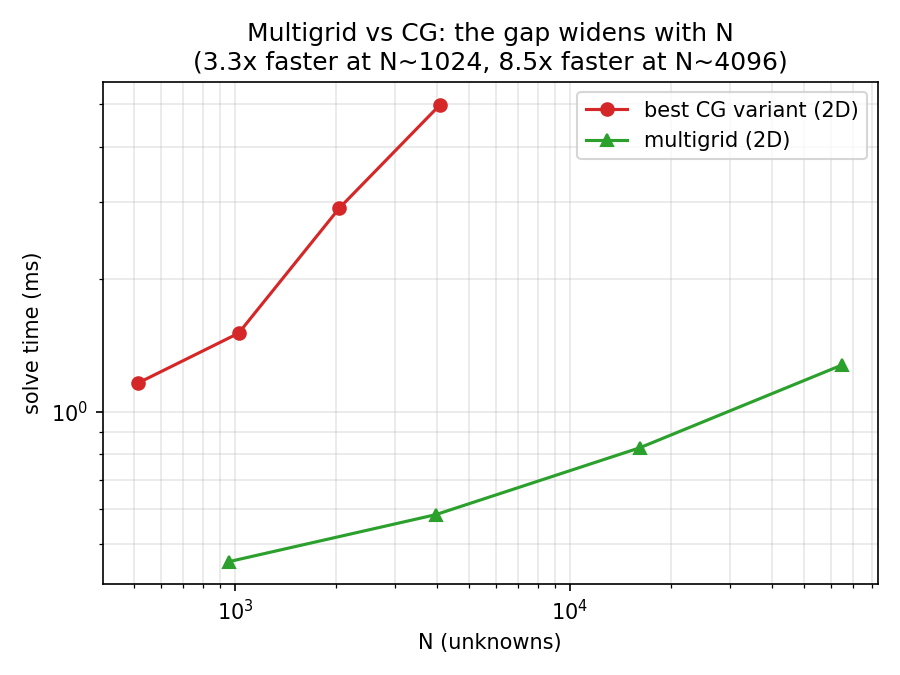
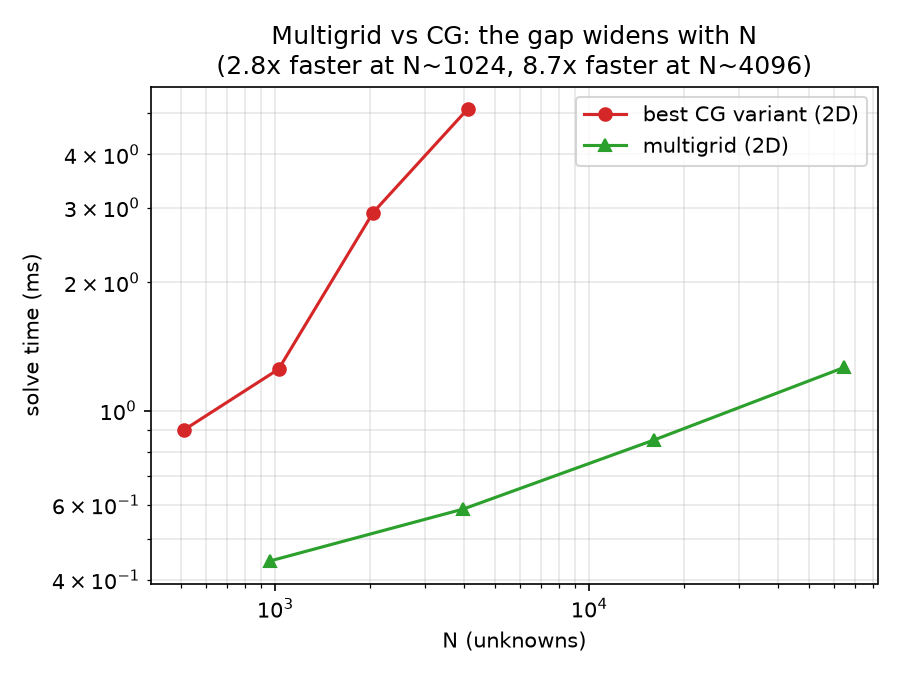
Multigrid rerun under final timing conditions; Figures 2 and 3 regenerated

diff --git a/figures/plot_all.py b/figures/plot_all.py
@@ -34,9 +34,9 @@ plt.close(fig)
 # ---------------------------------------------------------------------
 fig, ax = plt.subplots(figsize=(6, 4.5))
 n_cg2d = [512, 1024, 2048, 4096]
-t_cg2d_best = [1.1617, 1.5082, 2.9023, 4.9836]  # fastest CG variant at each size
+t_cg2d_best = [0.9009, 1.2512, 2.9202, 5.1122]  # fastest CG variant at each size
 n_mg = [961, 3969, 16129, 65025]
-t_mg = [0.4570, 0.5839, 0.8281, 1.2780]
+t_mg = [0.443, 0.5868, 0.8534, 1.2638]
 
 ax.plot(n_cg2d, t_cg2d_best, "o-", label="best CG variant (2D)", color="#d62728")
 ax.plot(n_mg, t_mg, "^-", label="multigrid (2D)", color="#2ca02c")
@@ -44,7 +44,7 @@ ax.set_xscale("log")
 ax.set_yscale("log")
 ax.set_xlabel("N (unknowns)")
 ax.set_ylabel("solve time (ms)")
-ax.set_title("Multigrid vs CG: the gap widens with N\n(3.3x faster at N~1024, 8.5x faster at N~4096)")
+ax.set_title("Multigrid vs CG: the gap widens with N\n(2.8x faster at N~1024, 8.7x faster at N~4096)")
 ax.legend()
 ax.grid(alpha=0.3, which="both")
 fig.tight_layout()
@@ -56,11 +56,11 @@ plt.close(fig)
 # ---------------------------------------------------------------------
 fig, ax = plt.subplots(figsize=(6, 4.5))
 n_cg2d_w = [512, 1024, 2048, 4096]
-eff_cg2d = [2.436, 1.494, 1.417, 1.217]  # sparse, us/unknown
+eff_cg2d = [2.529, 1.523, 1.479, 1.271]  # sparse, us/unknown
 n_cg3d_w = [512, 4096, 13824, 32768]
-eff_cg3d = [0.903, 0.358, 0.338, 0.404]  # sparse, us/unknown -- note the reversal at 32768
+eff_cg3d = [0.912, 0.369, 0.354, 0.4]  # sparse, us/unknown -- note the reversal at 32768
 n_mg_w = [961, 3969, 16129, 65025]
-eff_mg = [0.4755, 0.1471, 0.0513, 0.0197]
+eff_mg = [0.461, 0.1478, 0.0529, 0.0194]
 
 ax.plot(n_cg2d_w, eff_cg2d, "o-", label="2D CG (sparse)", color="#d62728")
 ax.plot(n_cg3d_w, eff_cg3d, "s-", label="3D CG (sparse)", color="#ff7f0e")

diff --git a/6_multigrid/results.md b/6_multigrid/results.md
@@ -94,3 +94,7 @@ only next to other CG variants.
   implementation safety, not because it's optimal - red-black Gauss-Seidel
   would likely converge in fewer V-cycles still, not attempted here.
 - Precision is `float` throughout, same as the rest of this project.
+
+## Re-run used in the final paper
+
+The sweep above was repeated in a separate session under the final timing conditions (persistence mode on, charger connected, no other program running, no throttling). The logs are in `raw_rerun/`. The times (ms) are 0.4430, 0.5868, 0.8534 and 1.2638 for 961, 3969, 16129 and 65025 unknowns, with 6 V-cycles at every size. The paper tables use these values.
